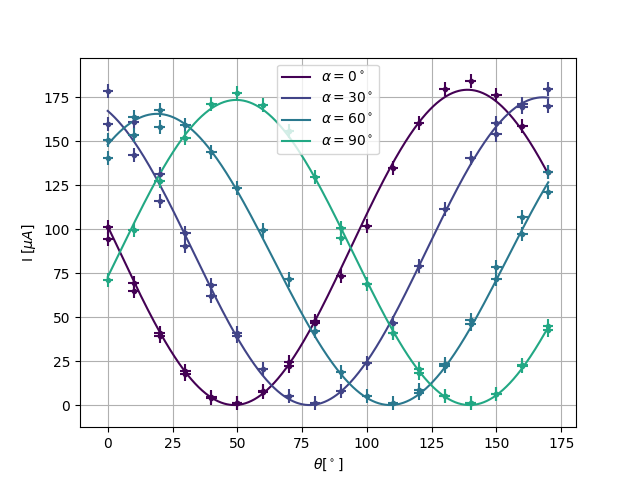
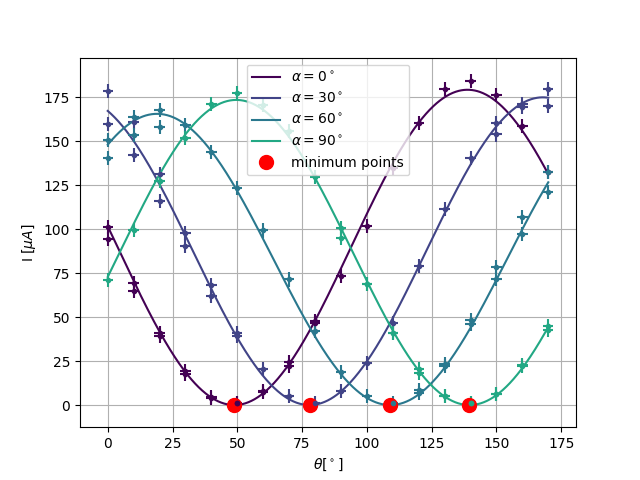
omri fixes for mid report

diff --git a/polarization/wave_plates.py b/polarization/wave_plates.py
@@ -65,6 +65,20 @@ def quarter_polar():
     plt.show()
 
 
+def elliptical_polar():
+    ax = plt.subplot(111, projection='polar')
+    file = 'quarter_waveplate/plate10.xlsx'
+    theta, power, alpha = get_single(file)
+    theta = theta*np.pi/180
+    theta_err, power_err = [0.03 for v in theta], [2 for v in power]
+    ax.errorbar(x=theta, y=power, xerr=theta_err, yerr=power_err, fmt='', linestyle='', label=f'$\\alpha={alpha}^\circ$')
+    
+    ax.legend()
+    ax.grid(True)
+    ax.set_rmax(180)
+    plt.show()
+
+
 def polar_plot_folder(folder_name):
     data, alphas = get_data(folder_name)
     for i in range(len(data)):
@@ -144,6 +158,7 @@ def plot_alpha():
 
 def plot_halfwave():
     data, alpha = get_data('half_waveplate')
+    roots = []
     for i in range(len(data)):
         data_set = data[i]
         x, y = data_set
@@ -157,11 +172,14 @@ def plot_halfwave():
         print(r2)
         x_fit = np.linspace(np.min(x), np.max(x), 1000)
         y_fit = half_model(x_fit, *params)
-        print(x_fit[np.argmin(y_fit)])
+        minimum = x_fit[np.argmin(y_fit)]
+        print(minimum)
+        roots.append(minimum)
         color = plt.cm.viridis(i / 5.0)
         plt.errorbar(x, y, xerr=x_err, yerr=y_err, fmt='.', color=color)
         plt.plot(x_fit, y_fit, label=label, color=color)
 
+    plt.plot(roots, [0 for _ in roots], 'o', markersize=10, color='r', label='minimum points')
     plt.xlabel('$\\theta [^\circ]$')
     plt.ylabel('I $[\mu A]$')
     plt.legend()
@@ -182,3 +200,5 @@ def fit_half_plate(data_set):
 if __name__ == "__main__":
     # quarter_polar()
     plot_halfwave()
+    # elliptical_polar()
+

diff --git a/polarization/analysis_waveplates.py b/polarization/analysis_waveplates.py
@@ -84,6 +84,43 @@ def plot_folder(folder):
     plt.show()
 
 
+def get_one_alpha(x, y, alpha):
+    indices = []
+    for i in range(len(x)):
+        a, b = x[i]
+        if a == alpha:
+            indices.append(i)
+    res_x = np.array([x[i][1] for i in indices])
+    res_y = np.array([y[i] for i in indices])
+    return res_x, res_y
+
+
+
+
+def plot_chosen_alphas():
+    params = np.array([162.17371554, 92.5429132,  -16.60241009,  18.01271223])
+    model = amp2
+    x, y = get_data('quarter_waveplate')
+    colors = ['b', 'g', 'r']
+    alphas = [10, 35, 80]
+    for i in range(3):
+        alpha = alphas[i]
+        color = colors[i]
+        theta, I = get_one_alpha(x, y, alpha)
+        theta_err = [2 for val in theta]
+        I_err = [2 for val in I]
+        plt.errorbar(x=theta, y=I, xerr=theta_err, yerr=I_err, color=color, fmt='.', label=f'$\\alpha={alpha}^\circ$')
+        x_fit = np.linspace(0, 360, 1000)
+        y_fit = np.array([amp2(np.array([alpha, v]), *params) for v in x_fit])
+        plt.plot(x_fit, y_fit, color=color, linestyle='--')
+
+    plt.grid()
+    plt.legend()
+    plt.xlabel('$\\theta$ [$^\circ$]')
+    plt.ylabel('I [$\mu$A]')
+    plt.show()
+
+        
 def d3_fit_quarter():
     x, y = get_data('quarter_waveplate')
     x_err = [2 for val in x]
@@ -219,3 +256,4 @@ if __name__ == "__main__":
     # fit_quarter()
     # fit_half()
     # plot_folder('quarter_waveplate')
+    plot_chosen_alphas()
